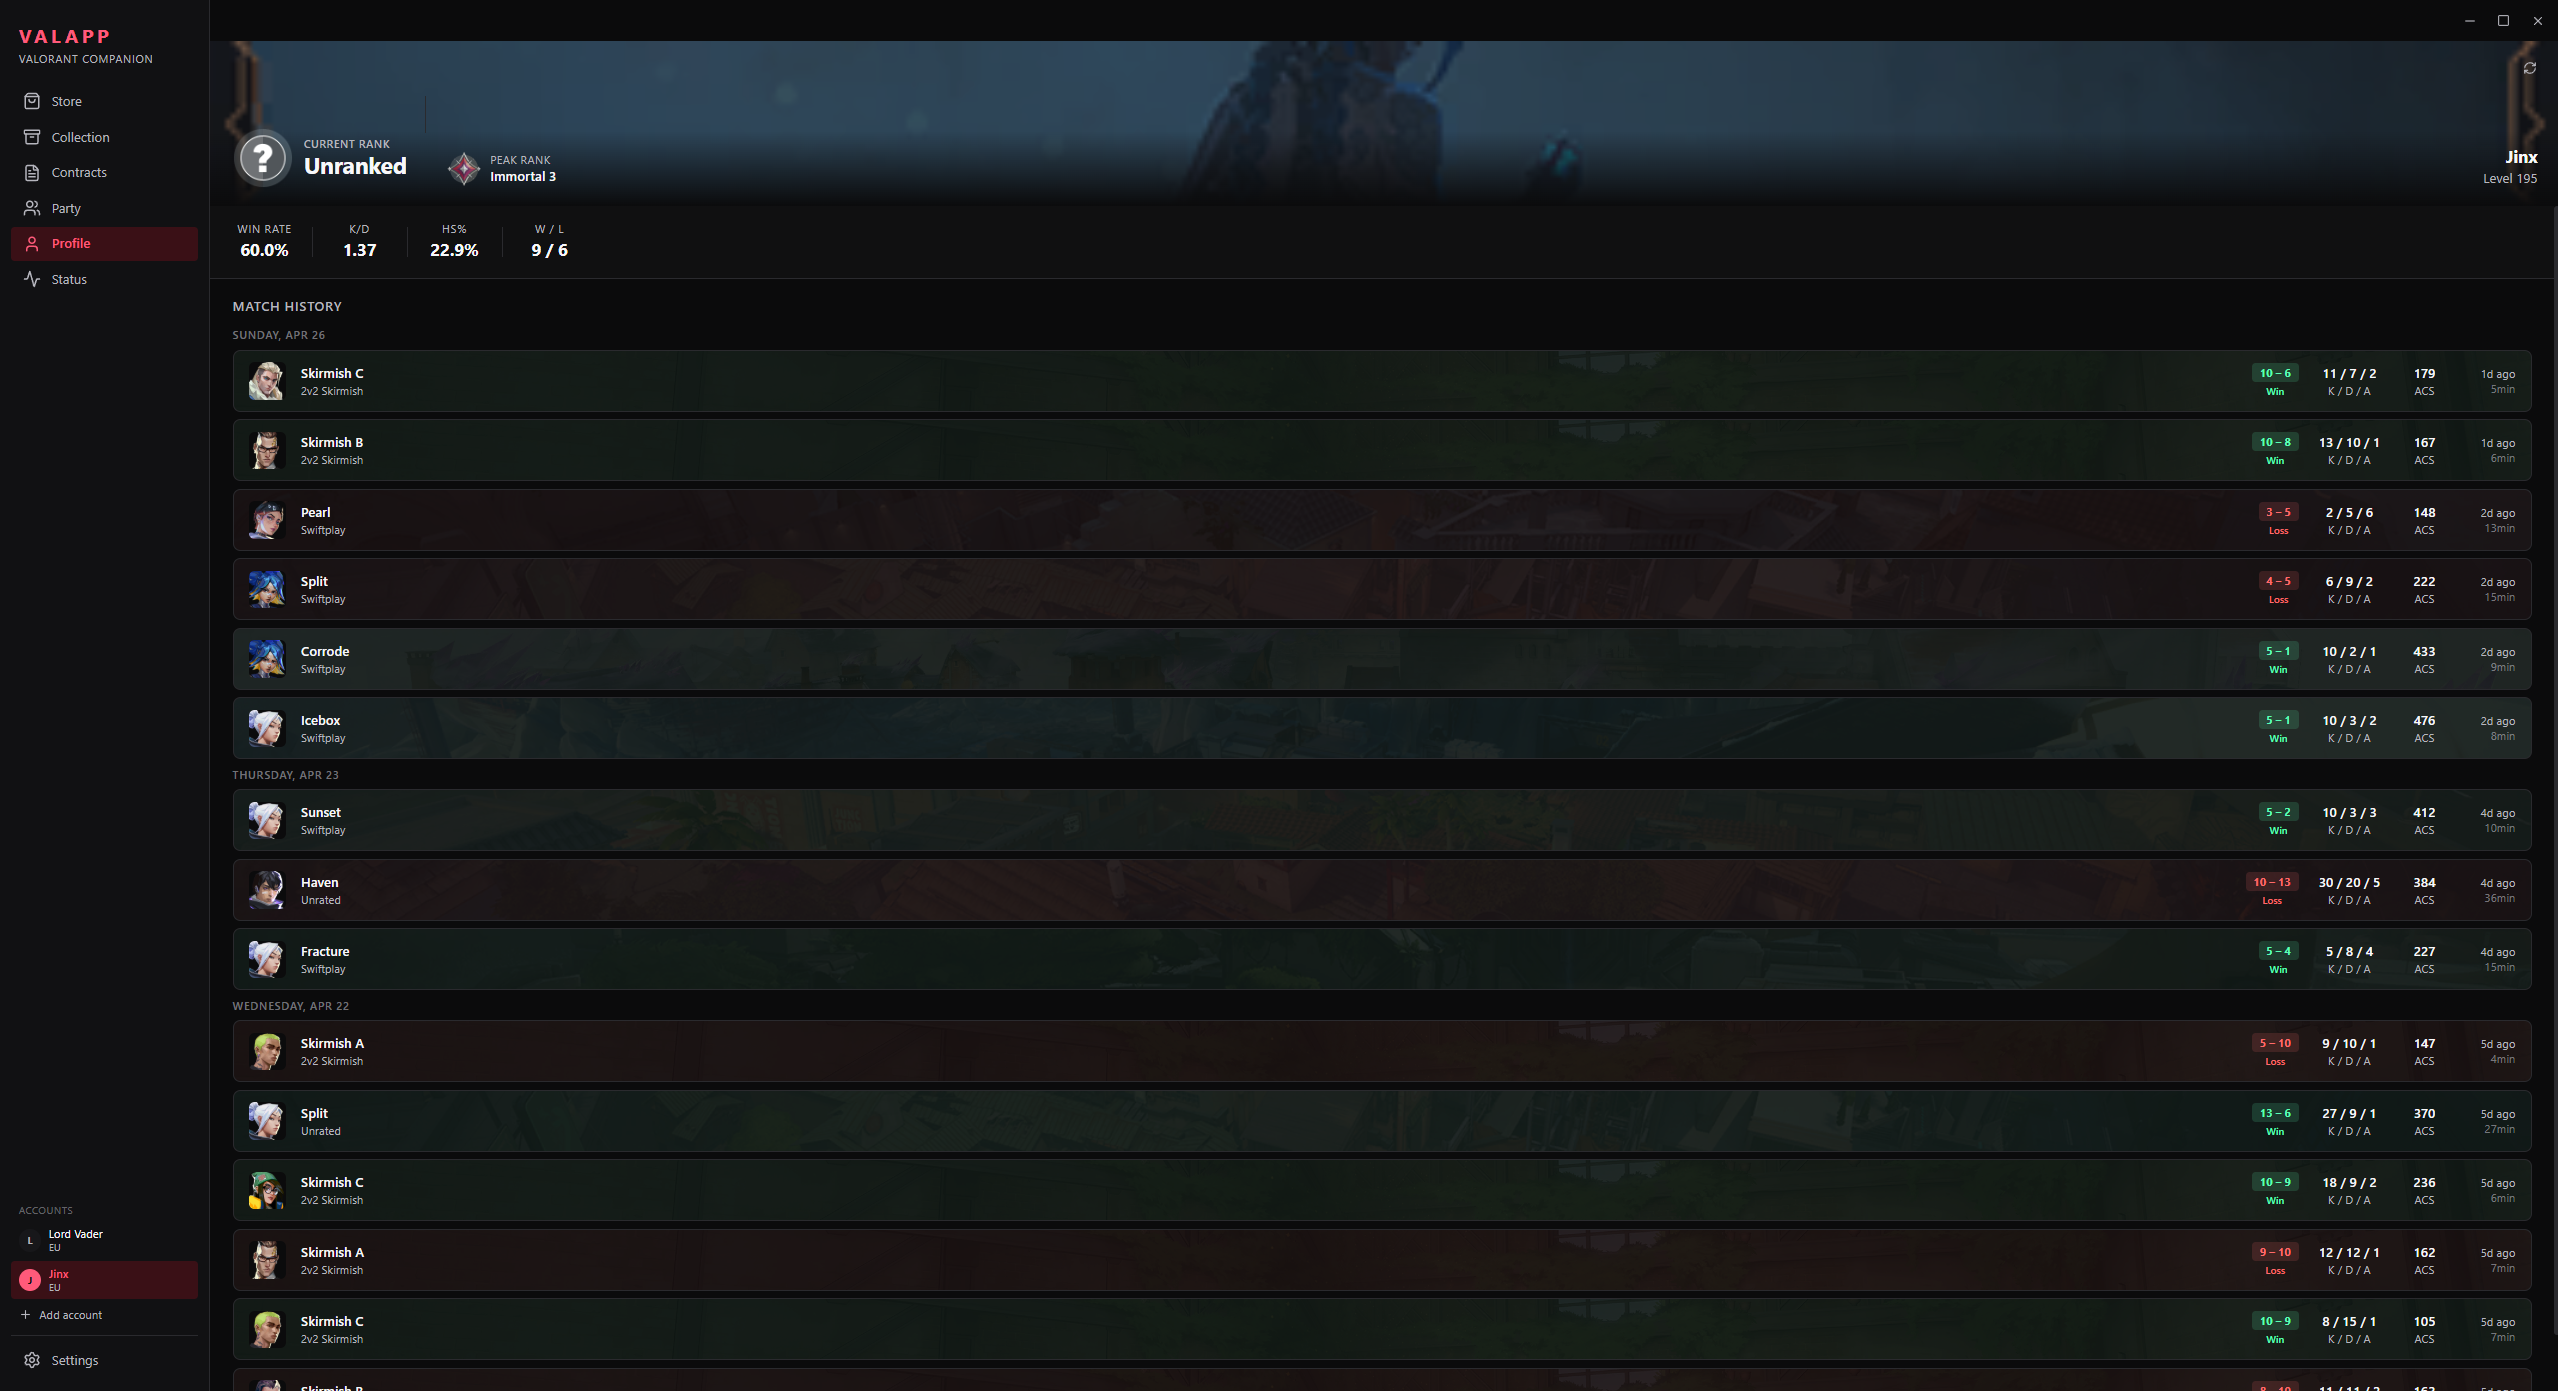
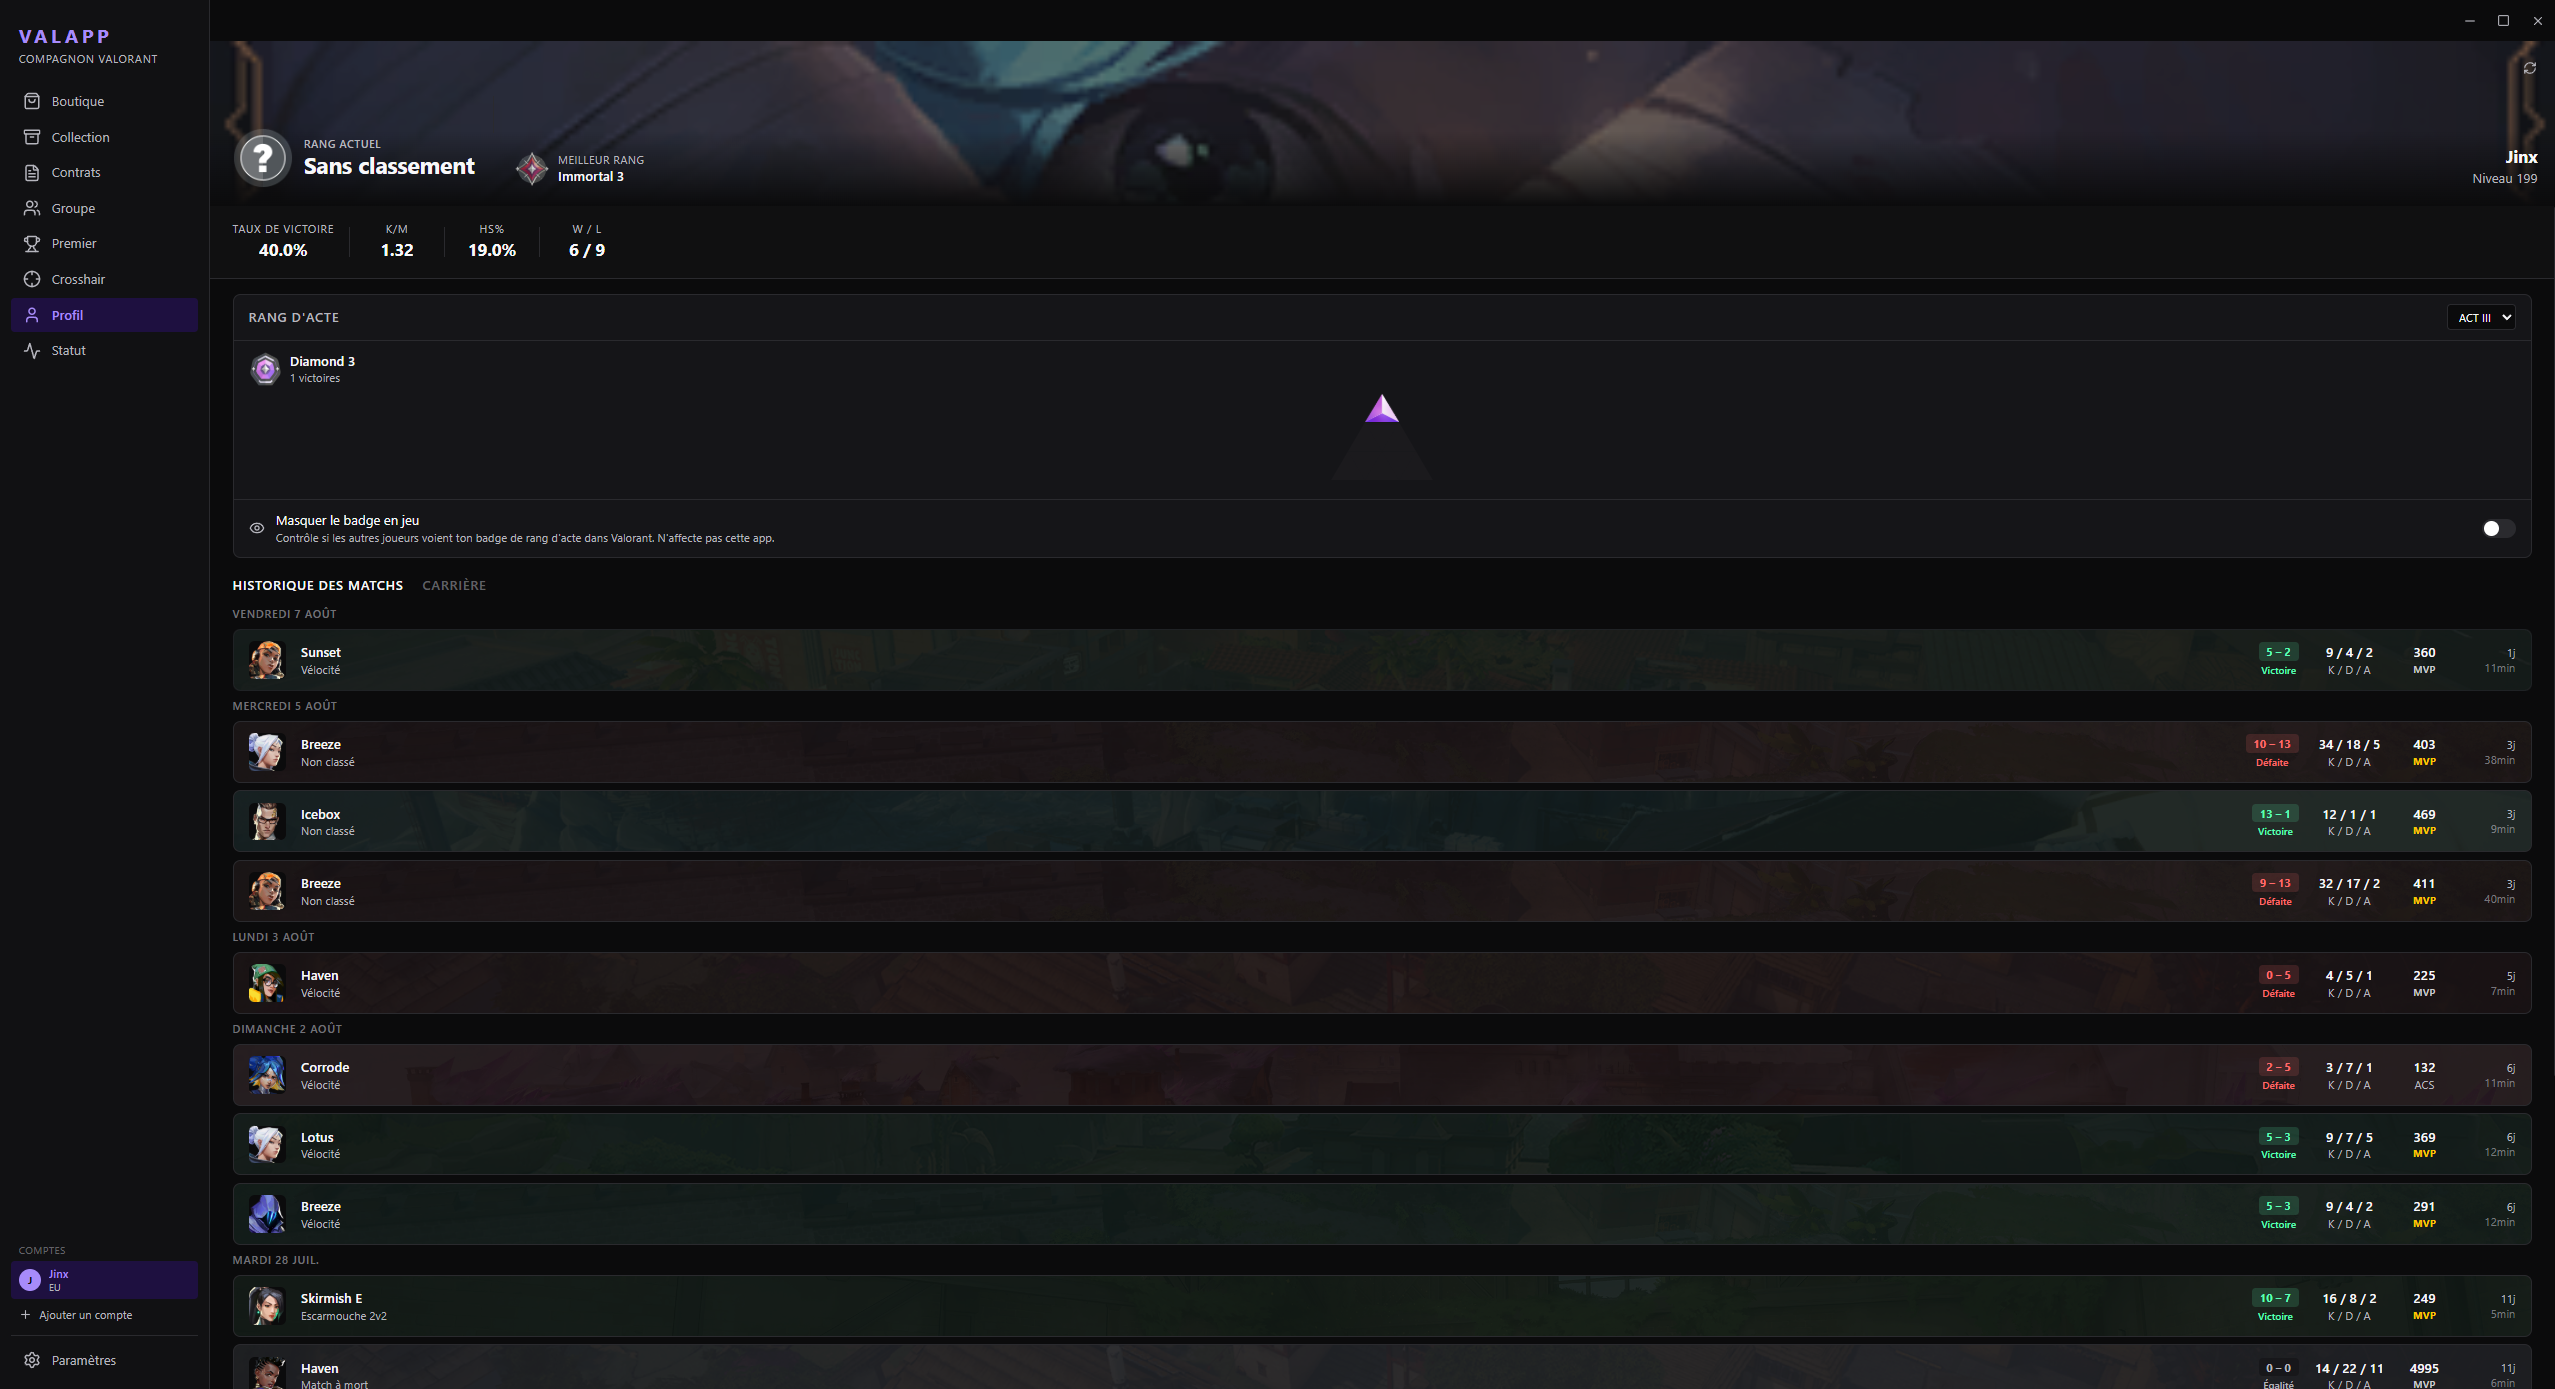
docs: passionate intro + presets/premier/crosshair screenshots

diff --git a/README.md b/README.md
@@ -6,11 +6,11 @@
 ![Built with Tauri](https://img.shields.io/badge/Tauri-2-FFC131?logo=tauri&logoColor=white)
 [![Discord](https://img.shields.io/badge/Discord-Join%20Server-5865F2?logo=discord&logoColor=white)](https://discord.gg/6BZekAEqDD)
 
-## The fastest way to manage your VALORANT inventory.
+## The Valorant companion I wanted — so I built it.
 
-**VALAPP** is a **lightweight, secure, and ultra-fast desktop companion for VALORANT**. Get instant access to your skins, loadout, match history, and party status — without the bloat of the official client.
+**VALAPP** is a desktop companion for VALORANT. Check your shop, manage your collection, apply **loadout presets by map**, scout your lobby, and follow your matches — all outside the game, without launching the client.
 
-**100% local. No telemetry. No tracking. Just works.**
+**Made by a player.** 100% local — no telemetry, no tracking, no data resale.
 
 ---
 
@@ -39,6 +39,15 @@
 
 ### Contracts & Battle Pass
 ![Contracts](https://raw.githubusercontent.com/Main-Zenato/VALAPP-desktop/main/.github/assets/contrat.png)
+
+### Loadout Presets by Map
+![Loadout Presets](https://raw.githubusercontent.com/Main-Zenato/VALAPP-desktop/main/.github/assets/presets.png)
+
+### Premier
+![Premier](https://raw.githubusercontent.com/Main-Zenato/VALAPP-desktop/main/.github/assets/premier.png)
+
+### Crosshair Generator
+![Crosshair Generator](https://raw.githubusercontent.com/Main-Zenato/VALAPP-desktop/main/.github/assets/crosshair.png)
 
 ---
 
@@ -245,6 +254,8 @@ Built on proven, industry-standard technologies:
 ---
 
 ## About This Project
+
+I got tired of launching the Riot client just to check my shop, swap a skin, or look up a player's rank in the lobby — so I built the app I wanted to use. VALAPP is an independent project, made by a player, and I keep improving it around my own needs and community feedback. No ads, no tracking, no data resale.
 
 VALAPP Desktop is an **independent third-party companion** — not affiliated with or endorsed by Riot Games.
 
